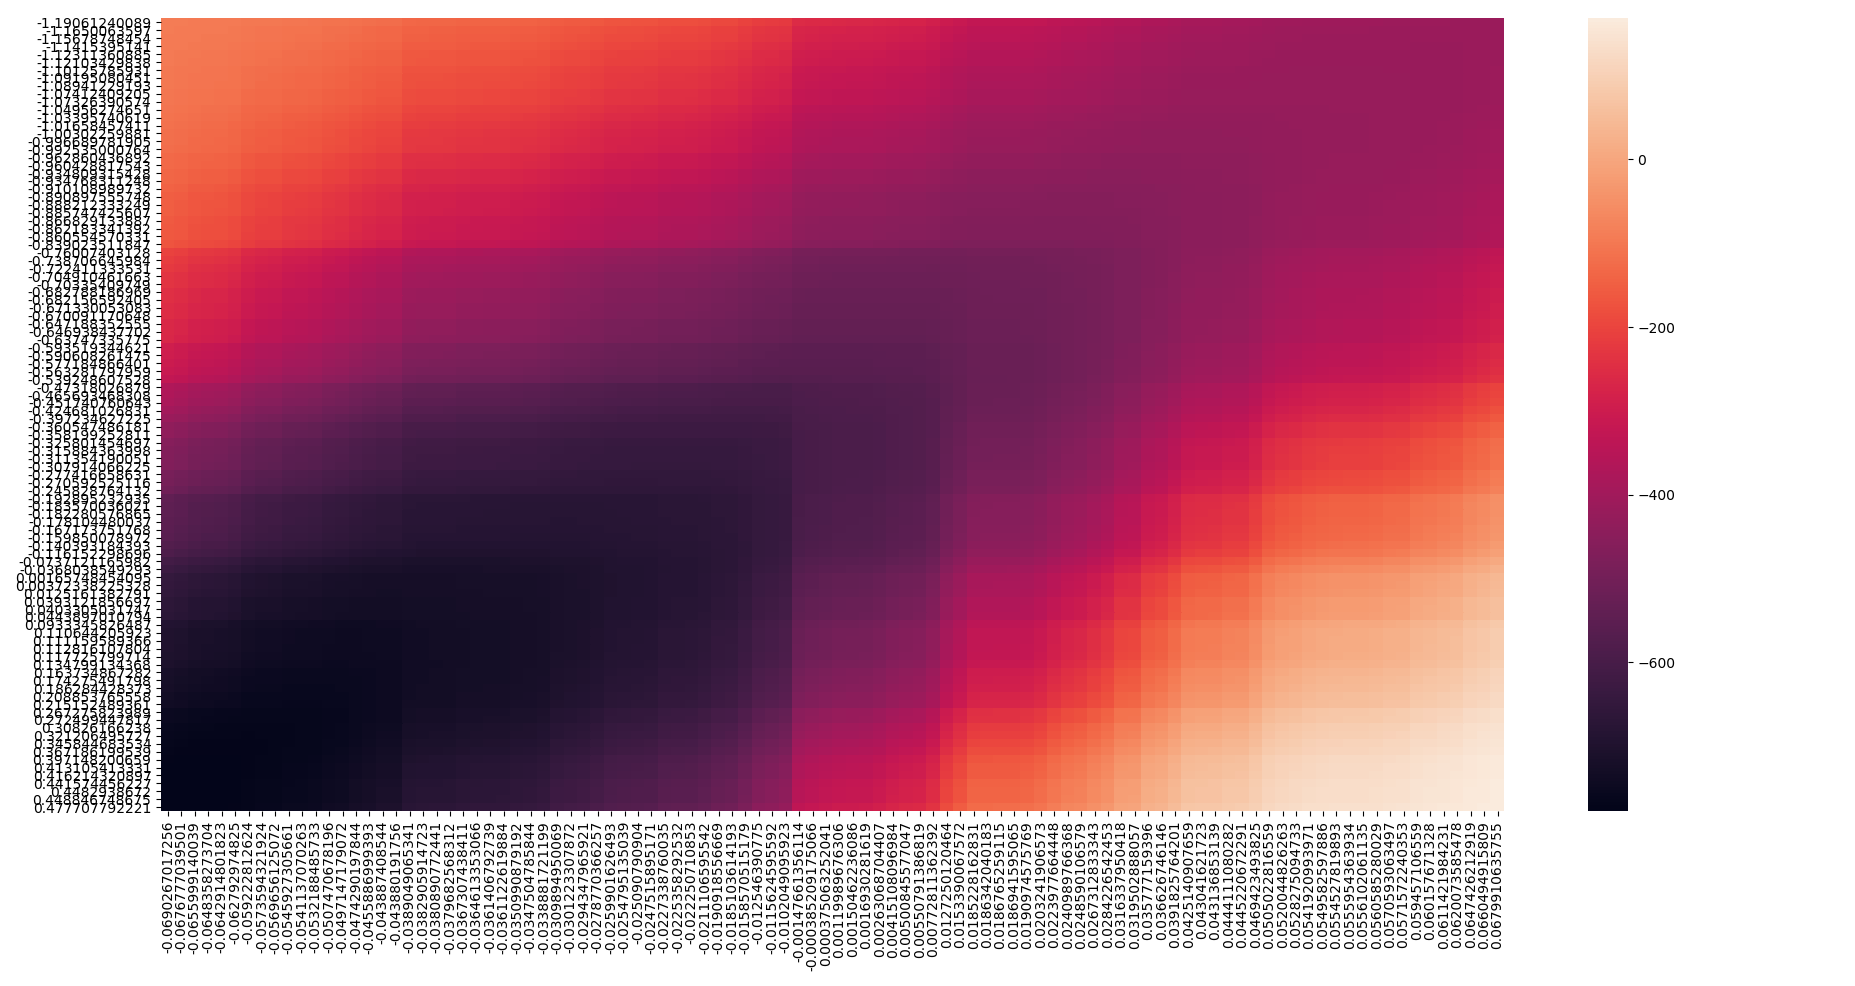
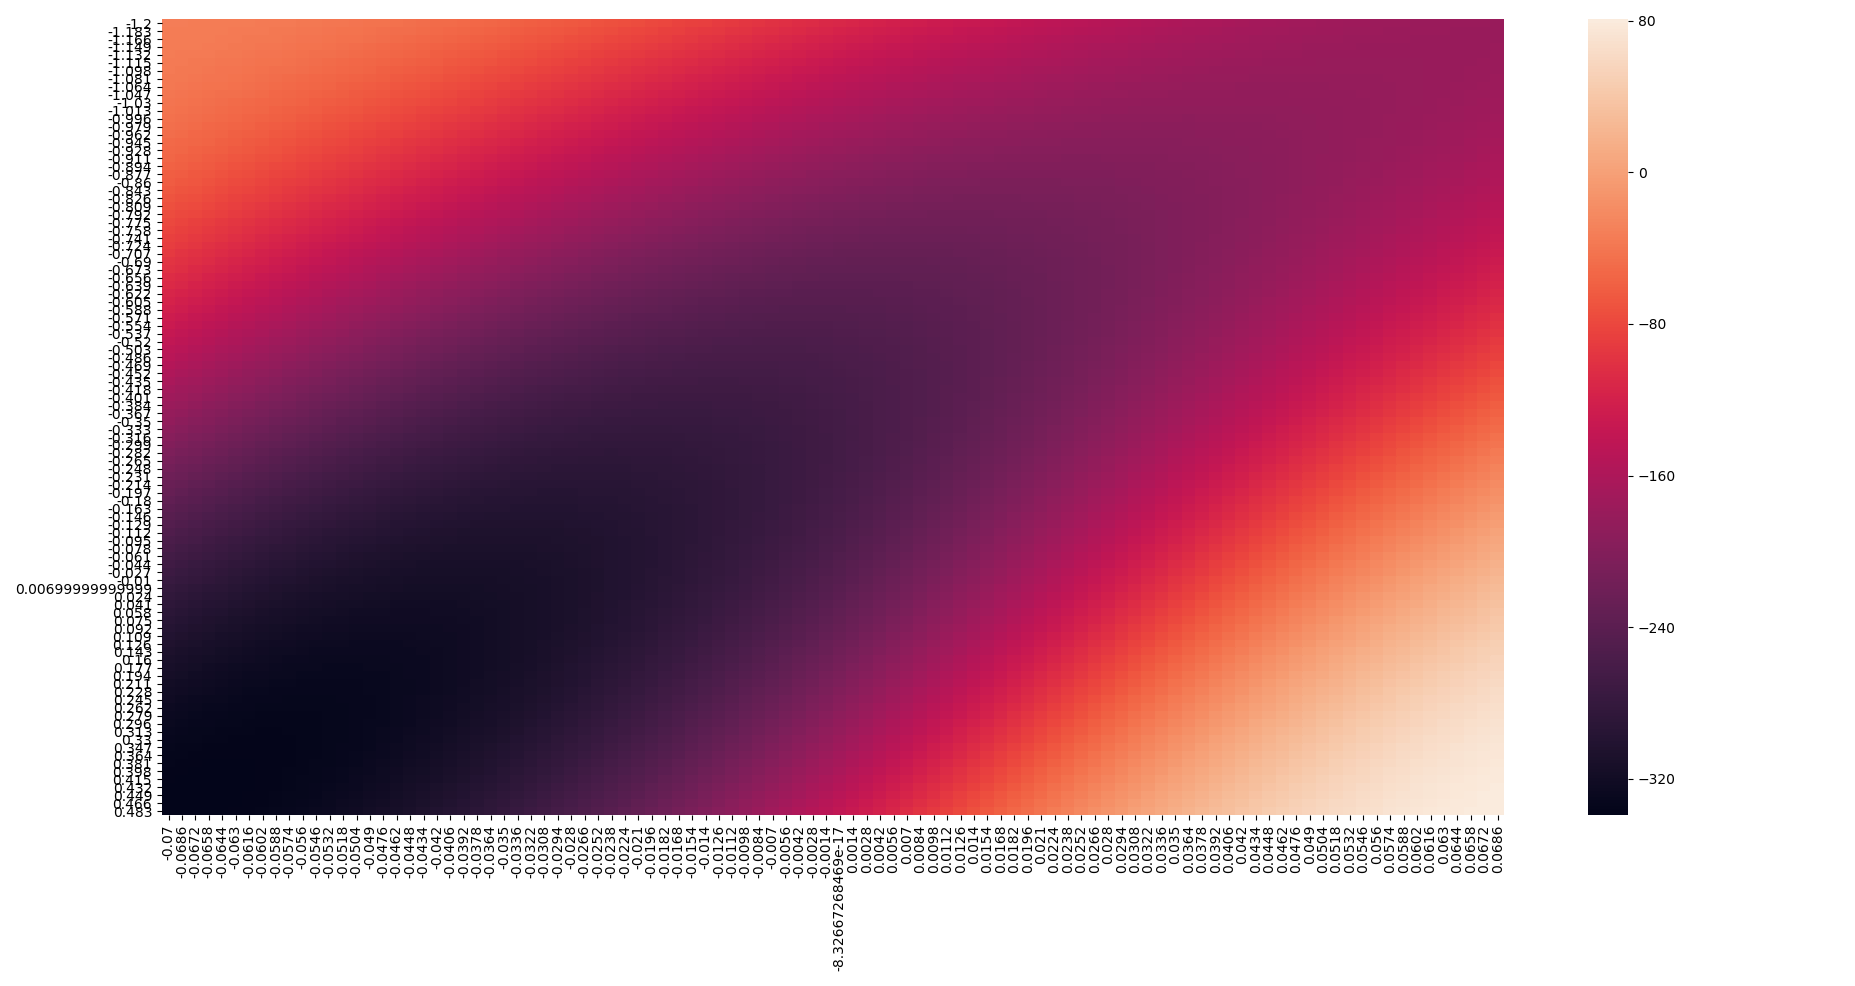
Bug-Fix : Value function generation.

diff --git a/value_plotter.py b/value_plotter.py
@@ -1,3 +1,5 @@
+from __future__ import division
+
 from environment import Environment
 from agent import Agent
 from agent import FourierExpansion
@@ -26,8 +28,9 @@ with open(directory+'/learned_weights.pkl', 'r') as fp:
 
 print agent_obj.w
 
-x_values = (env_obj.position_ubound-env_obj.position_lbound)*np.random.sample(number_of_values) + env_obj.position_lbound
-v_values = (env_obj.velocity_ubound-env_obj.velocity_lbound)*np.random.sample(number_of_values) + env_obj.velocity_lbound
+x_values = np.arange(env_obj.position_lbound, env_obj.position_ubound, (env_obj.position_ubound-env_obj.position_lbound)/number_of_values)
+v_values = np.arange(env_obj.velocity_lbound, env_obj.velocity_ubound, (env_obj.velocity_ubound-env_obj.velocity_lbound)/number_of_values)
+
 state_values = np.zeros([number_of_values, number_of_values])
 
 x_values = np.sort(x_values)
@@ -42,11 +45,33 @@ for x in range(len(x_values)):
 		state = fourier.compute(state)
 
 		value = 0
+		q_vals = []
+		greedy_action = []
+		best_q = None
 
 		for y in range(len(env_obj.action_list)):
-			value += agent_obj.q_value(state, y)
+			qval = agent_obj.q_value(state, y)
+			q_vals.append(qval)
+
+			if best_q == None or best_q < qval:
+				best_q = qval
+				greedy_action = [ y ]
+			elif best_q == qval:
+				greedy_action.append(y)
+
+		qvals = np.array(q_vals)
+
+		prob_dist = (agent_obj.hyperparameters['epsilon']/len(env_obj.action_list))*np.ones(len(env_obj.action_list))
+		prob_dist[greedy_action] = prob_dist[greedy_action] + (1 - (agent_obj.hyperparameters['epsilon']/len(env_obj.action_list)))/len(greedy_action)
+
+		value = np.sum(prob_dist*q_vals)
 
 		state_values[x, v] = value
+
+		if x == len(x_values)-1 and v == len(v_values)-1:
+			print x_values[x],", ",v_values[v],", ",state_values[x,v]
+			# break
+	# break
 
 # print state_values
 

diff --git a/interface.py b/interface.py
@@ -25,7 +25,7 @@ class AEInterface:
 		self.hyperparameters = {
 			"alpha": 0.02,
 			"gamma": 1,
-			"epsilon": 0.3,
+			"epsilon": 0.25,
 			"be_degree": 1
 		}
 

diff --git a/plot_returns.py b/plot_returns.py
@@ -8,7 +8,7 @@ import seaborn as sns
 return_history = None
 
 q = 3
-mode = "s"
+mode = "q"
 
 if q == 3:
 	if mode == "s":

diff --git a/README.md b/README.md
@@ -4,3 +4,35 @@ The mountain car experiment in RL
 - Algorithm implementations
 * [x] qlearning
 * [x] sarsa
+
+## Inferences
+
+- Both algorithms learned pretty quickly.
+- Q learning unstable for some ranges of hyperparameters.
+- But for the optimal one the variance of returns in later episodes very less.
+- Interesting to see value function heatmap.
+
+
+### Qlearning
+
+- state values range from about -240 to 240!! Interesting note
+- very low value region along diagonal - Slight positive gradient in direction of positive velocity.
+- overall the plot makes sense.
+- But state values coming greater than zero.!!!
+- Gradients of state values make sense
+
+### SARSA
+
+- State values range from -360 to 80
+- low region concentrated in the corner unlike q value function
+- SARSA based learned value functions makes more sense. like assigning higher values to positive velocity in leftmost extreme positions.
+- But could be wrong as a negative velocity helps to gain momentum when coming down the slope so that it can climb up the next slope.
+- Left end of the position has higher value in SARSA compared to q function
+
+## Inferences continued
+
+- The difference is that SARSA has a higher gradient along the diagonal.
+- The ranges learned by the algos are different. Range more for SARSA.
+- State Values getting more than 0. !! wrong implementation? :(
+
+TODO : visualize value function change over number of episodes.
